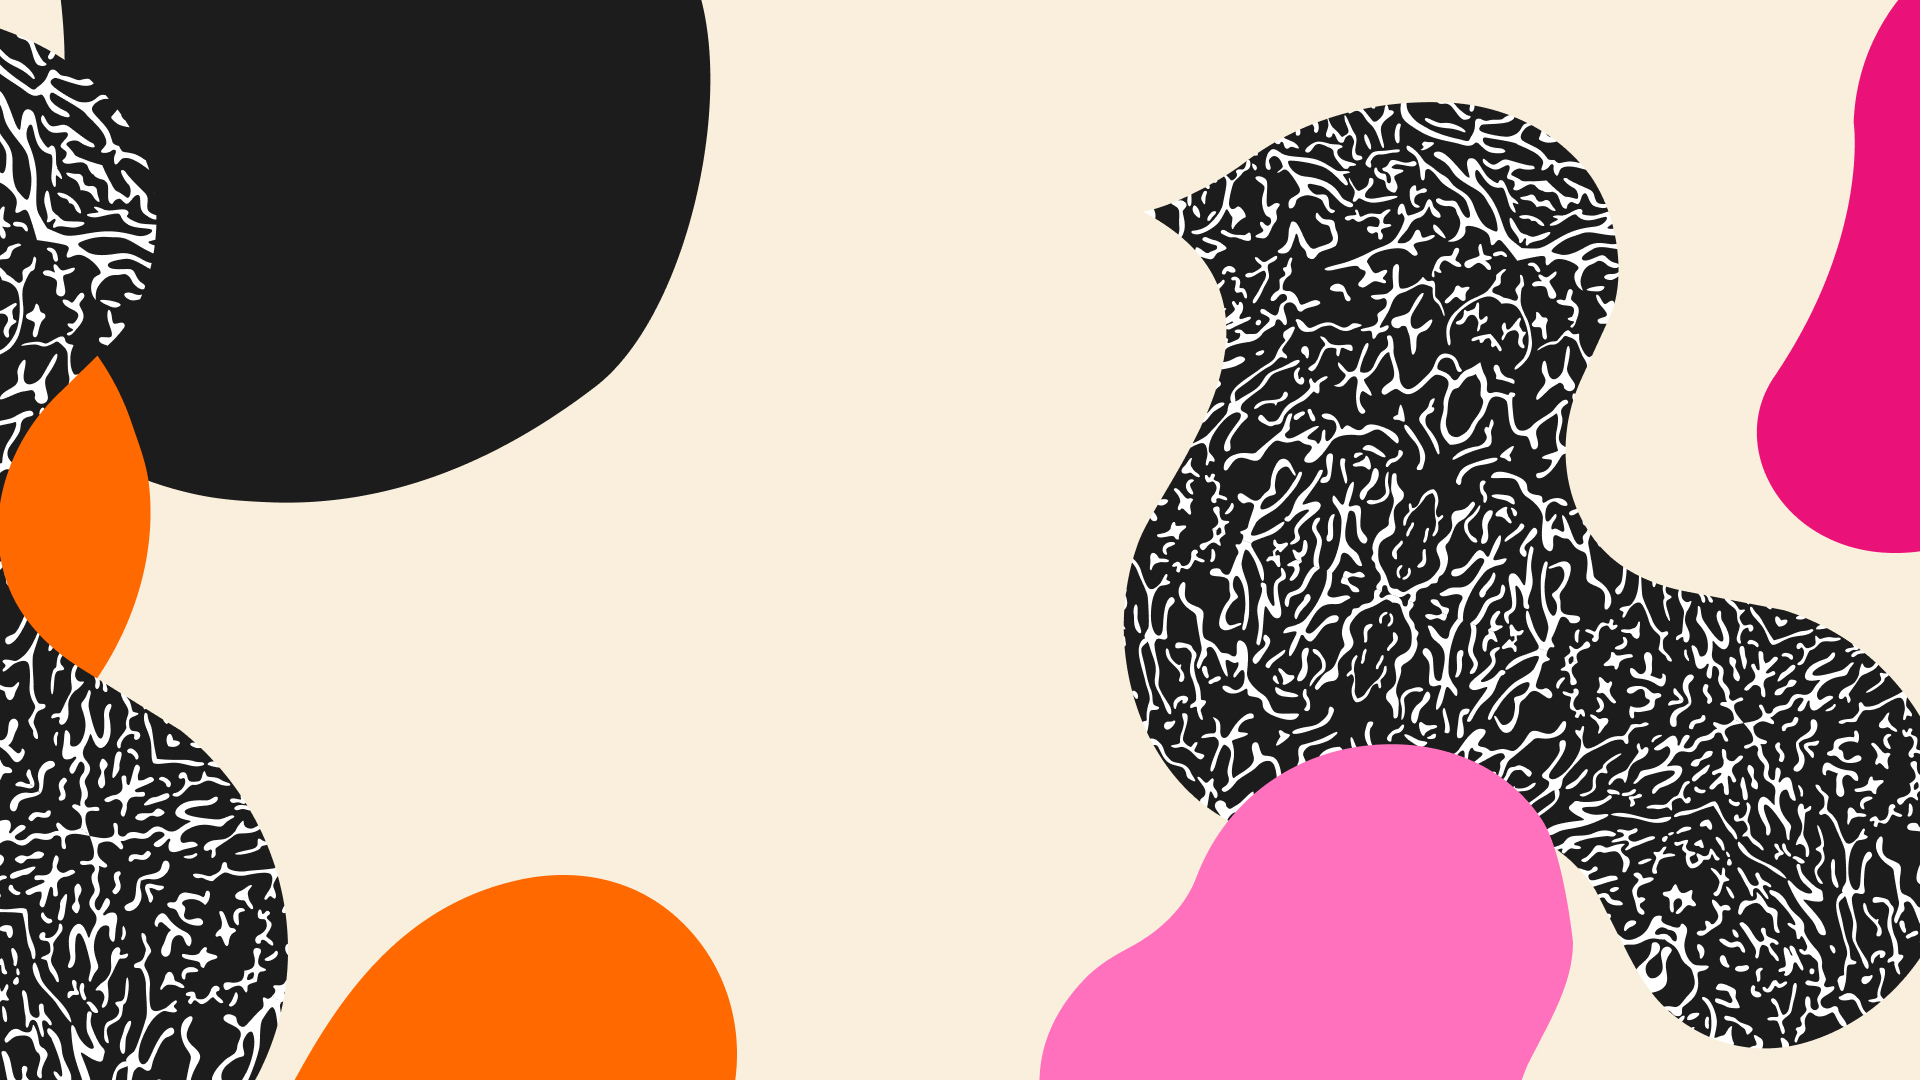
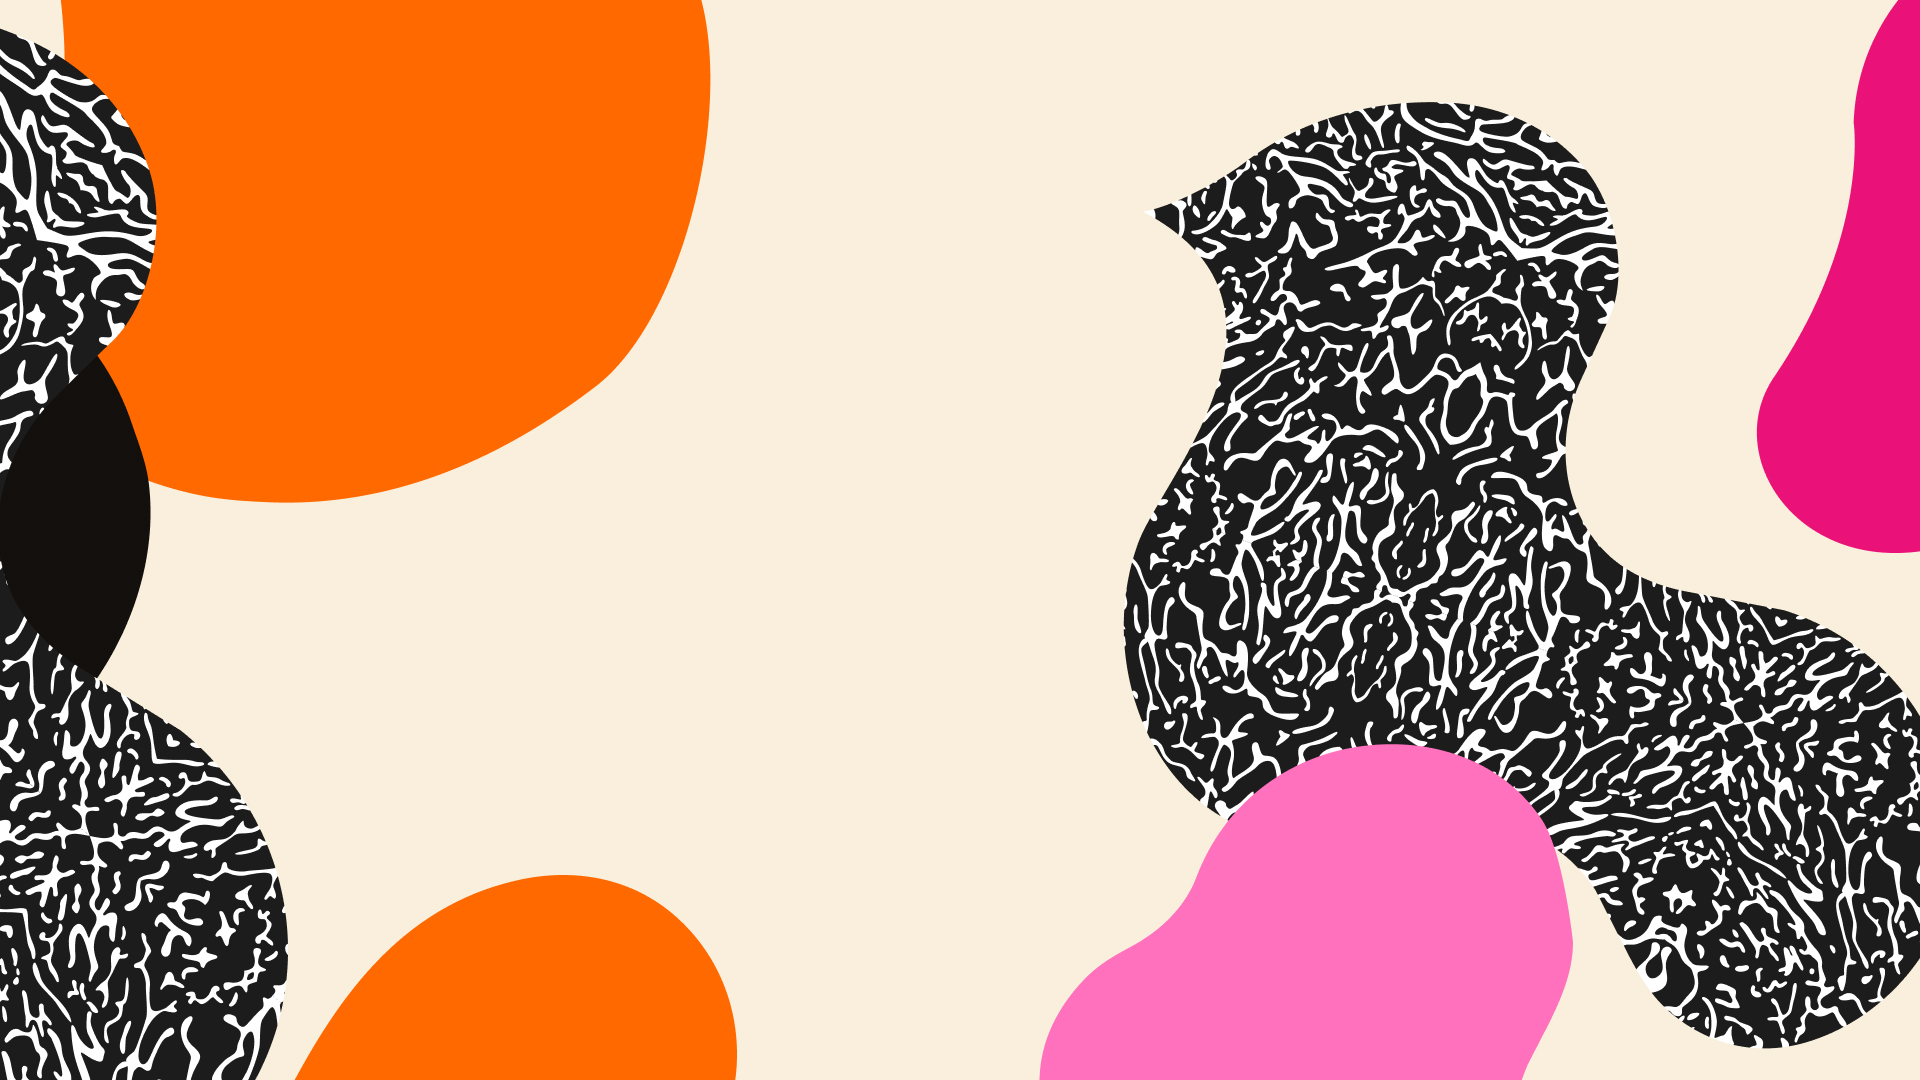
Смена стиля

Changed region(s): [[0.0, 0.0, 0.375, 0.6417]]

diff --git a/index.html b/index.html
@@ -45,7 +45,7 @@
                 required
                 aria-describedby="name-error"
               >
-              <!-- <p class="field-error" id="name-error" aria-live="polite"></p> -->
+              <p class="field-error" id="name-error" aria-live="polite"></p>
             </div>
 
             <div class="field">
@@ -60,7 +60,7 @@
                 required
                 aria-describedby="phone-error"
               >
-              <!-- <p class="field-error" id="phone-error" aria-live="polite"></p> -->
+              <p class="field-error" id="phone-error" aria-live="polite"></p>
             </div>
 
             <div class="field">
@@ -75,14 +75,14 @@
                 required
                 aria-describedby="email-error"
               >
-              <!-- <p class="field-error" id="email-error" aria-live="polite"></p> -->
+               <p class="field-error" id="email-error" aria-live="polite"></p>
             </div>
 
             <div class="honeypot" aria-hidden="true">
               <label for="website">Strona internetowa</label>
               <input id="website" name="website" type="text" tabindex="-1" autocomplete="off">
             </div>
-
+            <br>
             <fieldset class="consents">
               <legend>Zgody</legend>
 

diff --git a/styles.css b/styles.css
@@ -155,8 +155,8 @@ h1 {
 }
 
 .field-error {
-  min-height: 18px;
-  margin: 5px 0 0;
+  min-height: 5px;
+  margin: 0px 0 0;
   color: var(--danger);
   font-size: 0.78rem;
   line-height: 1.35;
